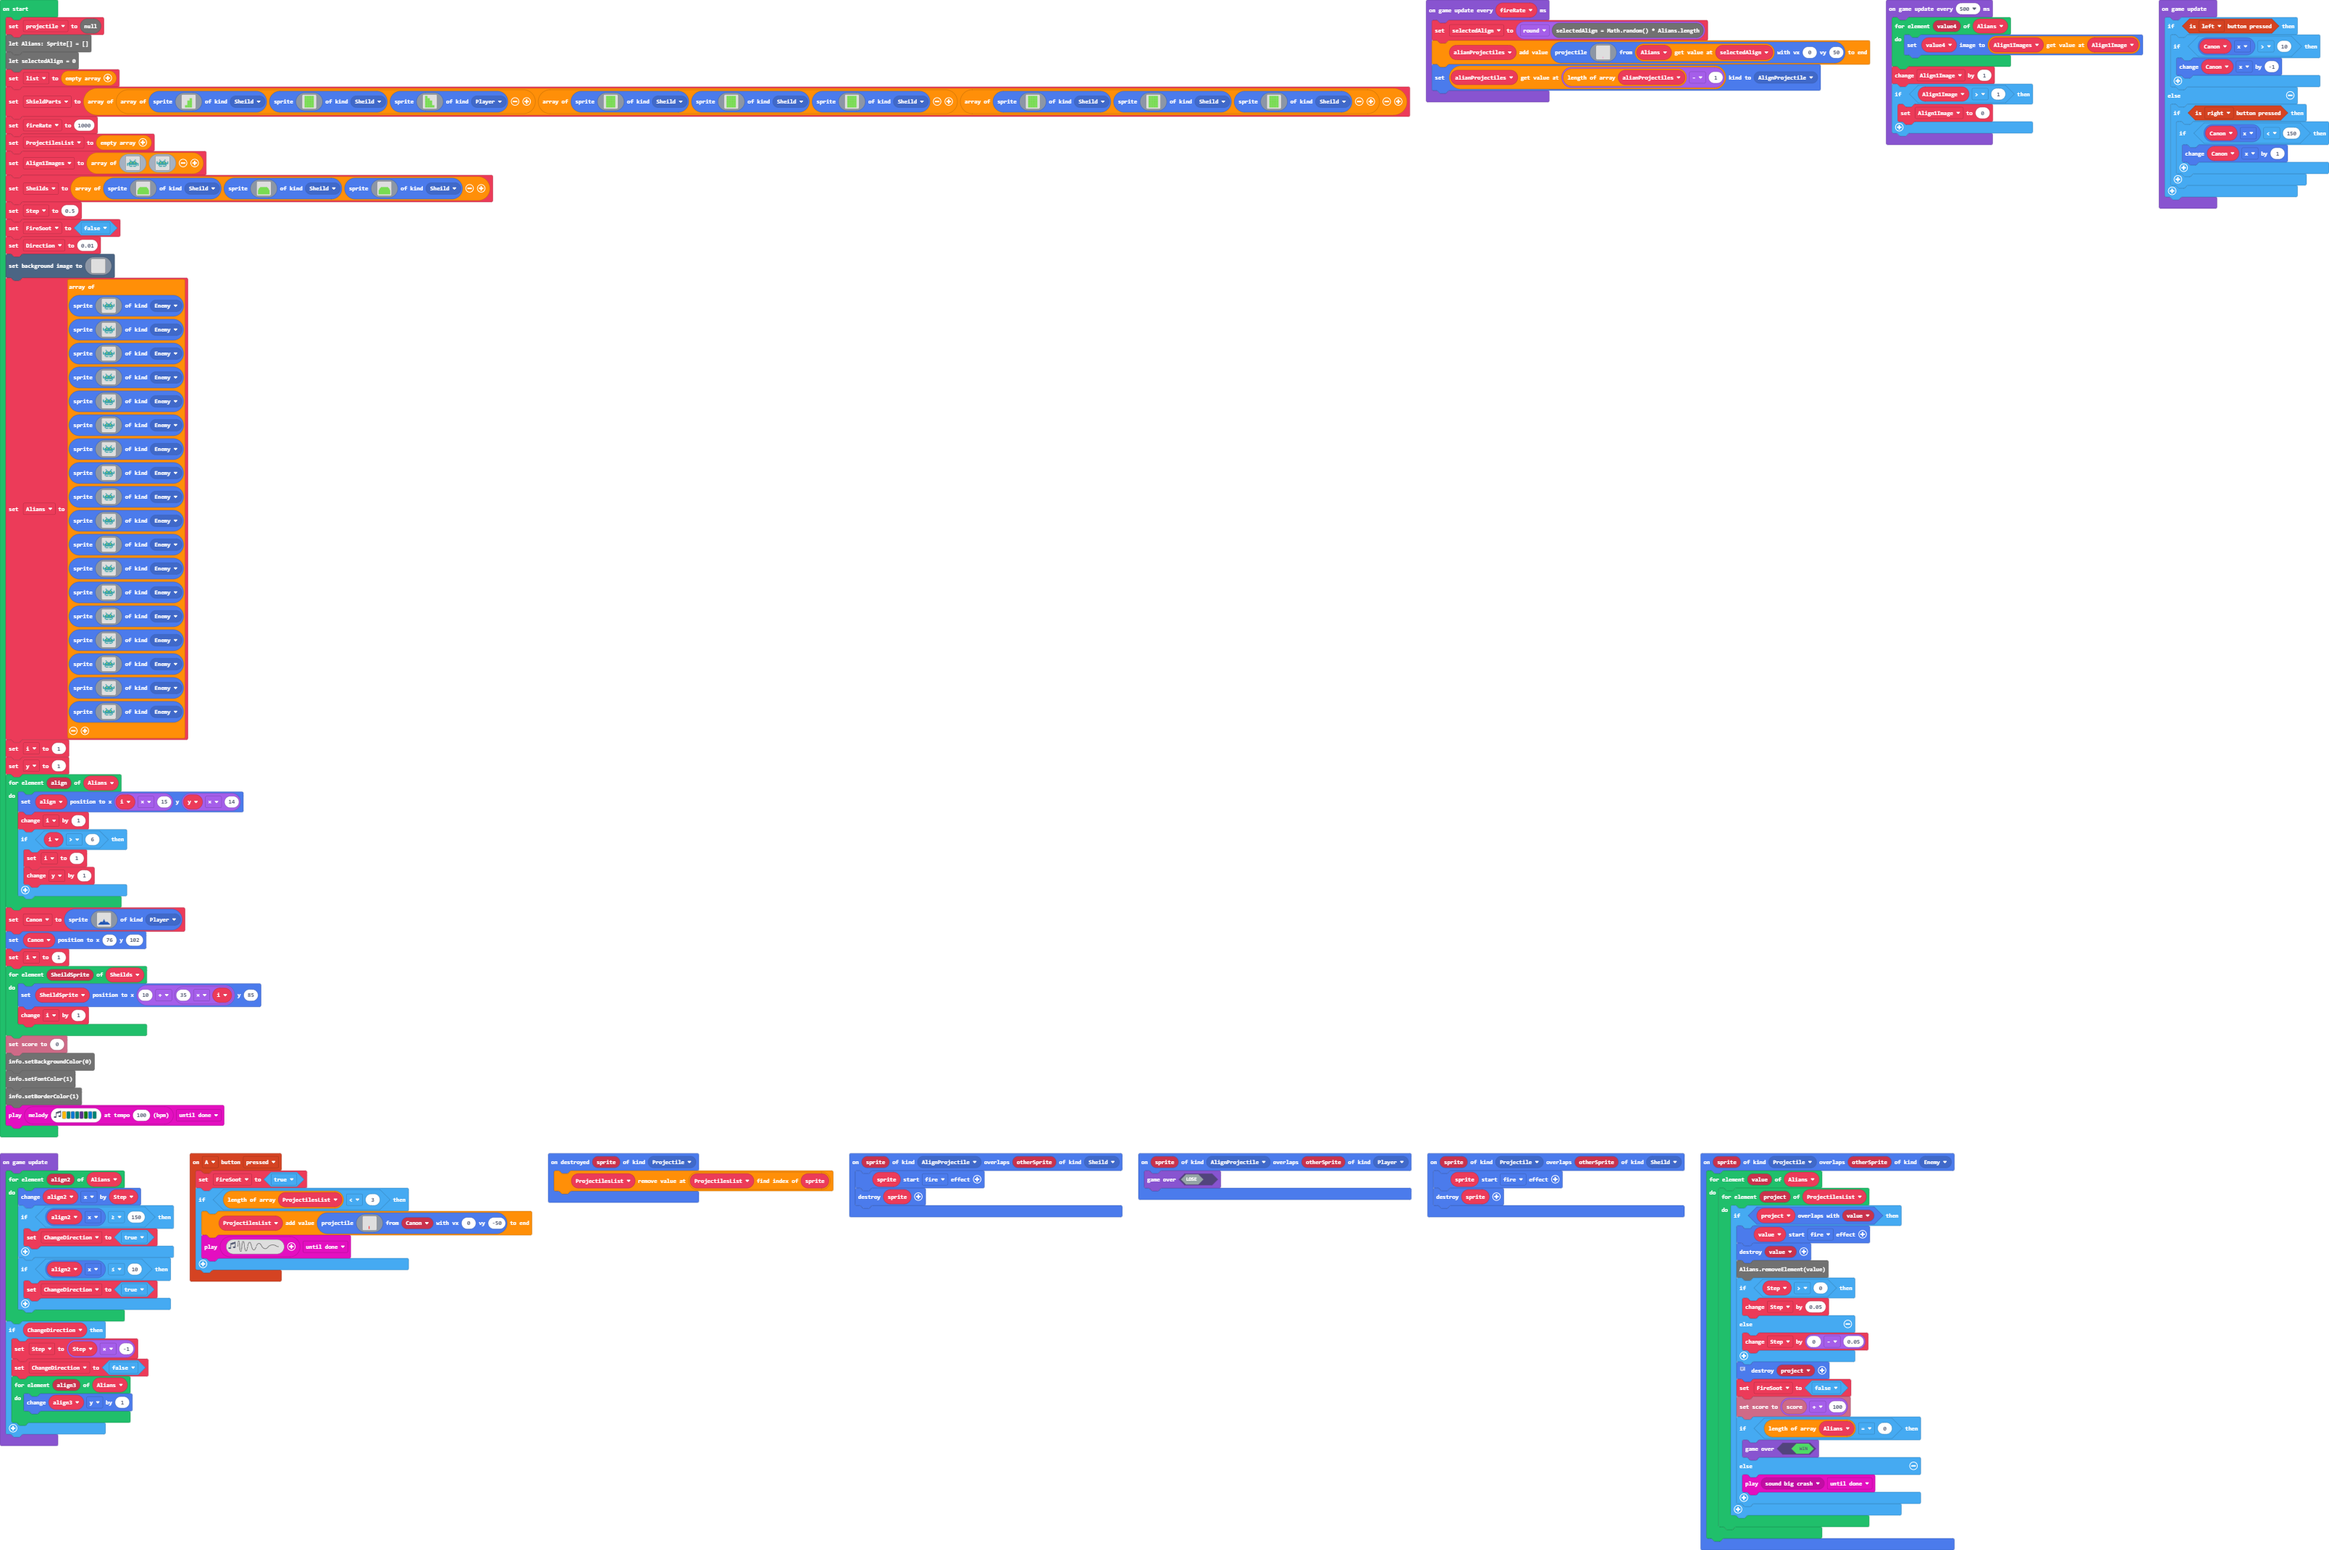
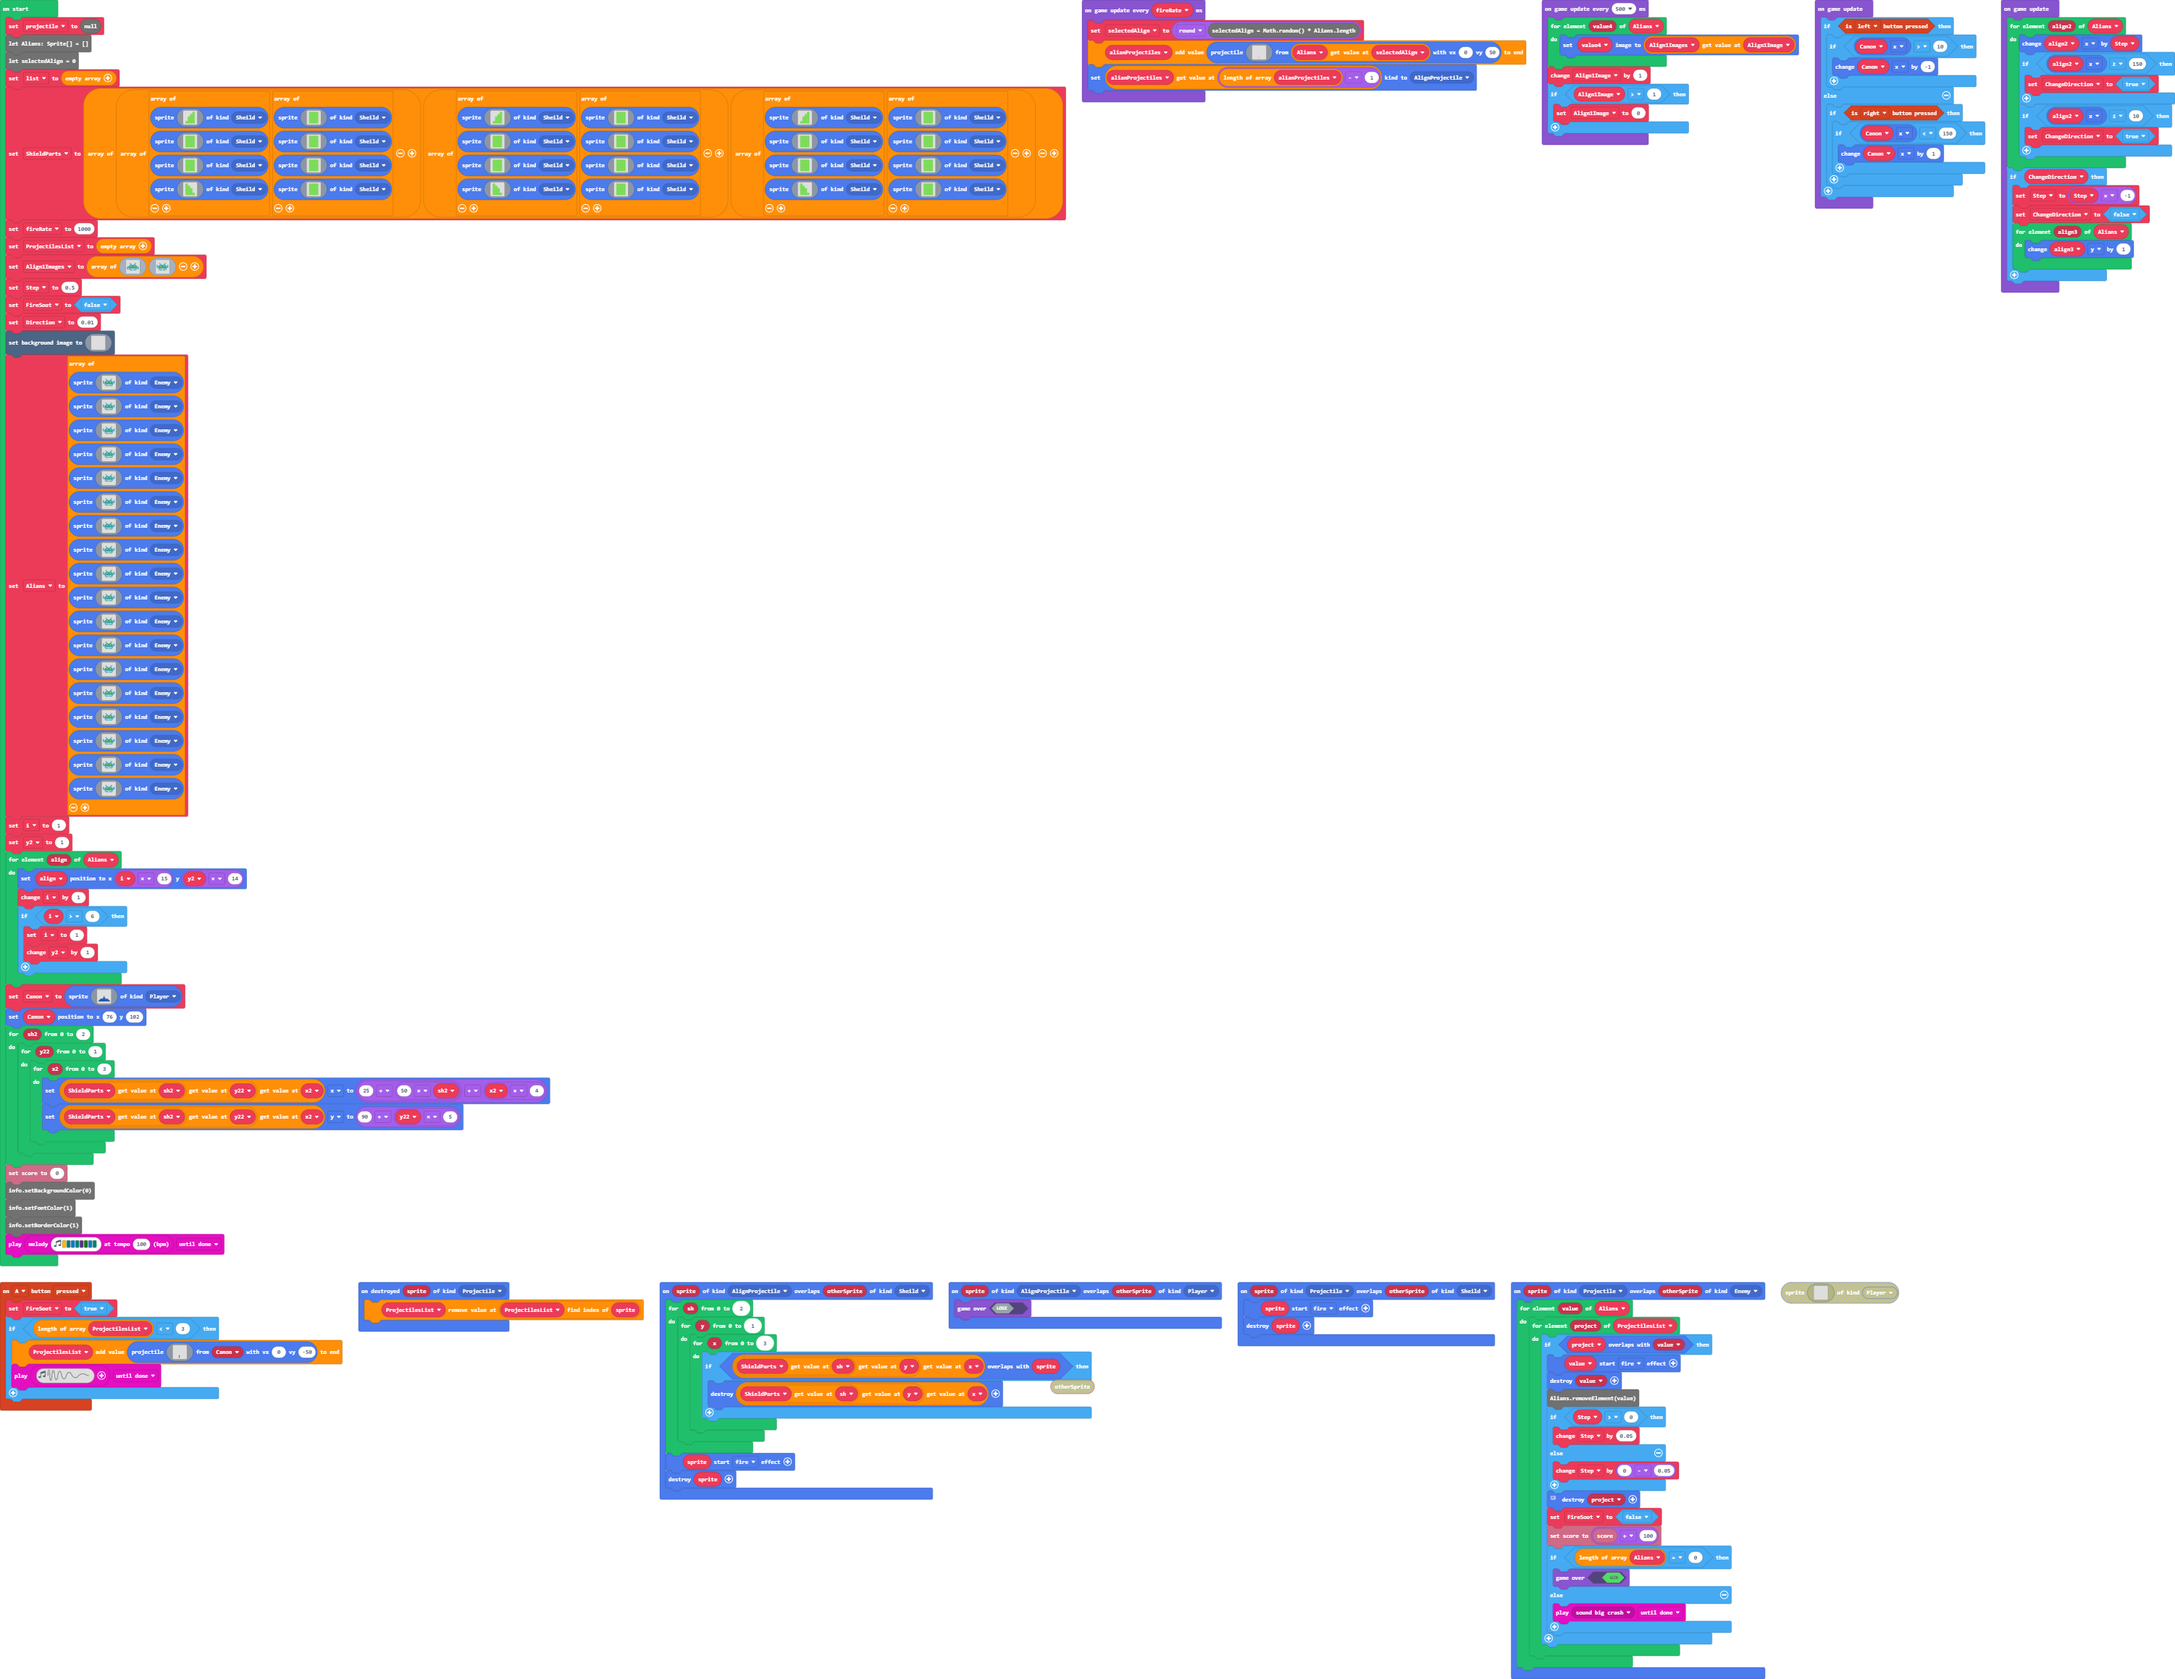
Added shields and did some twiking to the game to raise the FPS

Changed region(s): [[0.0, 0.0, 1.0, 1.0]]

diff --git a/main.ts b/main.ts
@@ -3,6 +3,16 @@ namespace SpriteKind {
     export const AlignProjectile = SpriteKind.create()
 }
 sprites.onOverlap(SpriteKind.AlignProjectile, SpriteKind.Sheild, function (sprite, otherSprite) {
+    /*for (let sh = 0; sh <= 2; sh++) {
+        for (let y = 0; y <= 1; y++) {
+            for (let x = 0; x <= 3; x++) {
+                if (ShieldParts[sh][y][x].overlapsWith(sprite)) {
+                    otherSprite.destroy()
+                }
+            }
+        }
+    }*/
+    otherSprite.destroy()
     sprite.startEffect(effects.fire)
     sprite.destroy()
 })
@@ -31,9 +41,9 @@ sprites.onOverlap(SpriteKind.Projectile, SpriteKind.Enemy, function (sprite, oth
                 sprites.destroy(value)
                 Alians.removeElement(value)
 if (Step > 0) {
-                    Step += 0.05
+                    Step += 0.1
                 } else {
-                    Step += 0 - 0.05
+                    Step += 0 - 0.1
                 }
                 // ProjectilesList.removeElement(project)
                 sprites.destroy(project)
@@ -54,16 +64,46 @@ let Canon: Sprite = null
 let FireSoot = false
 let Step = 0
 let ProjectilesList: Sprite[] = []
+let ShieldParts: Sprite[][][] = []
 let projectile = null
 let Alians: Sprite[] = []
 let selectedAlign = 0
 let list: number[] = []
-let ShieldParts = [[sprites.create(assets.image`SheildPart1`, SpriteKind.Sheild), sprites.create(assets.image`SheildPart2`, SpriteKind.Sheild), sprites.create(assets.image`SheildPart3`, SpriteKind.Player)], [sprites.create(assets.image`SheildPart2`, SpriteKind.Sheild), sprites.create(assets.image`SheildPart2`, SpriteKind.Sheild), sprites.create(assets.image`SheildPart2`, SpriteKind.Sheild)], [sprites.create(assets.image`SheildPart2`, SpriteKind.Sheild), sprites.create(assets.image`SheildPart2`, SpriteKind.Sheild), sprites.create(assets.image`SheildPart2`, SpriteKind.Sheild)]]
+ShieldParts = [[[
+sprites.create(assets.image`SheildLeftUp`, SpriteKind.Sheild),
+sprites.create(assets.image`SheildPart2`, SpriteKind.Sheild),
+sprites.create(assets.image`SheildPart2`, SpriteKind.Sheild),
+sprites.create(assets.image`SheildRightUP`, SpriteKind.Sheild)
+], [
+sprites.create(assets.image`SheildPart2`, SpriteKind.Sheild),
+sprites.create(assets.image`SheildPart2`, SpriteKind.Sheild),
+sprites.create(assets.image`SheildPart2`, SpriteKind.Sheild),
+sprites.create(assets.image`SheildPart2`, SpriteKind.Sheild)
+]], [[
+sprites.create(assets.image`SheildLeftUp`, SpriteKind.Sheild),
+sprites.create(assets.image`SheildPart2`, SpriteKind.Sheild),
+sprites.create(assets.image`SheildPart2`, SpriteKind.Sheild),
+sprites.create(assets.image`SheildRightUP`, SpriteKind.Sheild)
+], [
+sprites.create(assets.image`SheildPart2`, SpriteKind.Sheild),
+sprites.create(assets.image`SheildPart2`, SpriteKind.Sheild),
+sprites.create(assets.image`SheildPart2`, SpriteKind.Sheild),
+sprites.create(assets.image`SheildPart2`, SpriteKind.Sheild)
+]], [[
+sprites.create(assets.image`SheildLeftUp`, SpriteKind.Sheild),
+sprites.create(assets.image`SheildPart2`, SpriteKind.Sheild),
+sprites.create(assets.image`SheildPart2`, SpriteKind.Sheild),
+sprites.create(assets.image`SheildRightUP`, SpriteKind.Sheild)
+], [
+sprites.create(assets.image`SheildPart2`, SpriteKind.Sheild),
+sprites.create(assets.image`SheildPart2`, SpriteKind.Sheild),
+sprites.create(assets.image`SheildPart2`, SpriteKind.Sheild),
+sprites.create(assets.image`SheildPart2`, SpriteKind.Sheild)
+]]]
 let fireRate = 1000
 ProjectilesList = []
 let Align1Images = [assets.image`space invader enemy 0`, assets.image`space invader enemy 1`]
-let Sheilds = [sprites.create(assets.image`Sheild`, SpriteKind.Sheild), sprites.create(assets.image`Sheild`, SpriteKind.Sheild), sprites.create(assets.image`Sheild`, SpriteKind.Sheild)]
-Step = 0.5
+Step = 1
 FireSoot = false
 let Direction = 0.01
 scene.setBackgroundImage(assets.image`background`)
@@ -88,21 +128,24 @@ sprites.create(assets.image`space invader enemy 1`, SpriteKind.Enemy),
 sprites.create(assets.image`space invader enemy 1`, SpriteKind.Enemy)
 ]
 let i = 1
-let y = 1
+let y2 = 1
 for (let align of Alians) {
-    align.setPosition(i * 15, y * 14)
+    align.setPosition(i * 15, y2 * 14)
     i += 1
     if (i > 6) {
         i = 1
-        y += 1
+        y2 += 1
     }
 }
 Canon = sprites.create(assets.image`Canon`, SpriteKind.Player)
 Canon.setPosition(76, 102)
-i = 1
-for (let SheildSprite of Sheilds) {
-    SheildSprite.setPosition(10 + 35 * i, 85)
-    i += 1
+for (let sh2 = 0; sh2 <= 2; sh2++) {
+    for (let y22 = 0; y22 <= 1; y22++) {
+        for (let x2 = 0; x2 <= 3; x2++) {
+            ShieldParts[sh2][y22][x2].x = 25 + 50 * sh2 + x2 * 4
+            ShieldParts[sh2][y22][x2].y = 90 + y22 * 5
+        }
+    }
 }
 info.setScore(0)
 info.setBackgroundColor(0)
@@ -112,12 +155,12 @@ music.play(music.stringPlayable("A F E F D G E F ", 100), music.PlaybackMode.Unt
 game.onUpdate(function () {
     if (controller.left.isPressed()) {
         if (Canon.x > 10) {
-            Canon.x += -1
+            Canon.x += -3
         }
     } else {
         if (controller.right.isPressed()) {
             if (Canon.x < 150) {
-                Canon.x += 1
+                Canon.x += 3
             }
         }
     }
@@ -136,7 +179,7 @@ game.onUpdate(function () {
         Step = Step * -1
         ChangeDirection = false
         for (let align3 of Alians) {
-            align3.y += 1
+            align3.y += 2
         }
     }
 })

diff --git a/images.g.ts b/images.g.ts
@@ -306,25 +306,6 @@ e4444444444444444444444444444444444444444444444444444444444444444444444444444444
 ...........................4555555555555555555555555555555555555555555555555555555555555555555555555555555555555555555555555555554..............................
 ............................45555555555555555555555555555555555555555555555555555555555555555555555555555555555555555555555555554...............................
 `;
-            case "image8":
-            case "Sheild":return img`
-. . . . . . . . . . . . . . . . 
-. . . . . . . . . . . . . . . . 
-. . . . . . . . . . . . . . . . 
-. . . . . . . . . . . . . . . . 
-. . . . . . . . . . . . . . . . 
-. . . . . . . . . . . . . . . . 
-. . . 7 7 7 7 7 7 7 7 7 7 . . . 
-. . 7 7 7 7 7 7 7 7 7 7 7 7 . . 
-. 7 7 7 7 7 7 7 7 7 7 7 7 7 7 . 
-. 7 7 7 7 7 7 7 7 7 7 7 7 7 7 . 
-7 7 7 7 7 7 7 7 7 7 7 7 7 7 7 7 
-7 7 7 7 7 7 7 7 7 7 7 7 7 7 7 7 
-7 7 7 7 7 7 7 7 7 7 7 7 7 7 7 7 
-7 7 7 7 7 7 7 7 7 7 7 7 7 7 7 7 
-7 7 7 7 7 7 7 7 7 7 7 7 7 7 7 7 
-7 7 7 7 7 7 7 7 7 7 7 7 7 7 7 7 
-`;
             case "image9":
             case "Smily":return img`
 . . . . . 2 2 2 2 2 2 . . . . . 
@@ -782,6 +763,41 @@ ffffffffffffffffffffffffffffffffffffffffffffffffffffffffffffffffffffffffffffffff
 `;
             case "image19":
             case "SheildPart3":return img`
+7 . . . 
+7 7 . . 
+7 7 7 . 
+7 7 7 . 
+7 7 7 7 
+`;
+            case "image8":
+            case "SheildLeftUp":return img`
+. . . 7 
+. . 7 7 
+. 7 7 7 
+. 7 7 7 
+7 7 7 7 
+`;
+            case "image21":
+            case "Sheild1":return img`
+. . . . . . . . . . . . . . . . 
+. . . . . . . . . . . . . . . . 
+. . . . . . . . . . . . . . . . 
+. . . . . . . . . . . . . . . . 
+. . . . . . . . . . . . . . . . 
+. . . . . . . . . . . . . . . . 
+. . . 7 7 7 7 7 7 7 7 7 7 . . . 
+. . 7 7 7 7 7 7 7 7 7 7 7 7 . . 
+. 7 7 7 7 7 7 7 7 7 7 7 7 7 7 . 
+. 7 7 7 7 7 7 7 7 7 7 7 7 7 7 . 
+7 7 7 7 7 7 7 7 7 7 7 7 7 7 7 7 
+7 7 7 7 7 7 7 7 7 7 7 7 7 7 7 7 
+7 7 7 7 7 7 7 7 7 7 7 7 7 7 7 7 
+7 7 7 7 7 7 7 7 7 7 7 7 7 7 7 7 
+7 7 7 7 7 7 7 7 7 7 7 7 7 7 7 7 
+7 7 7 7 7 7 7 7 7 7 7 7 7 7 7 7 
+`;
+            case "image20":
+            case "SheildRightUP":return img`
 7 . . . 
 7 7 . . 
 7 7 7 . 
